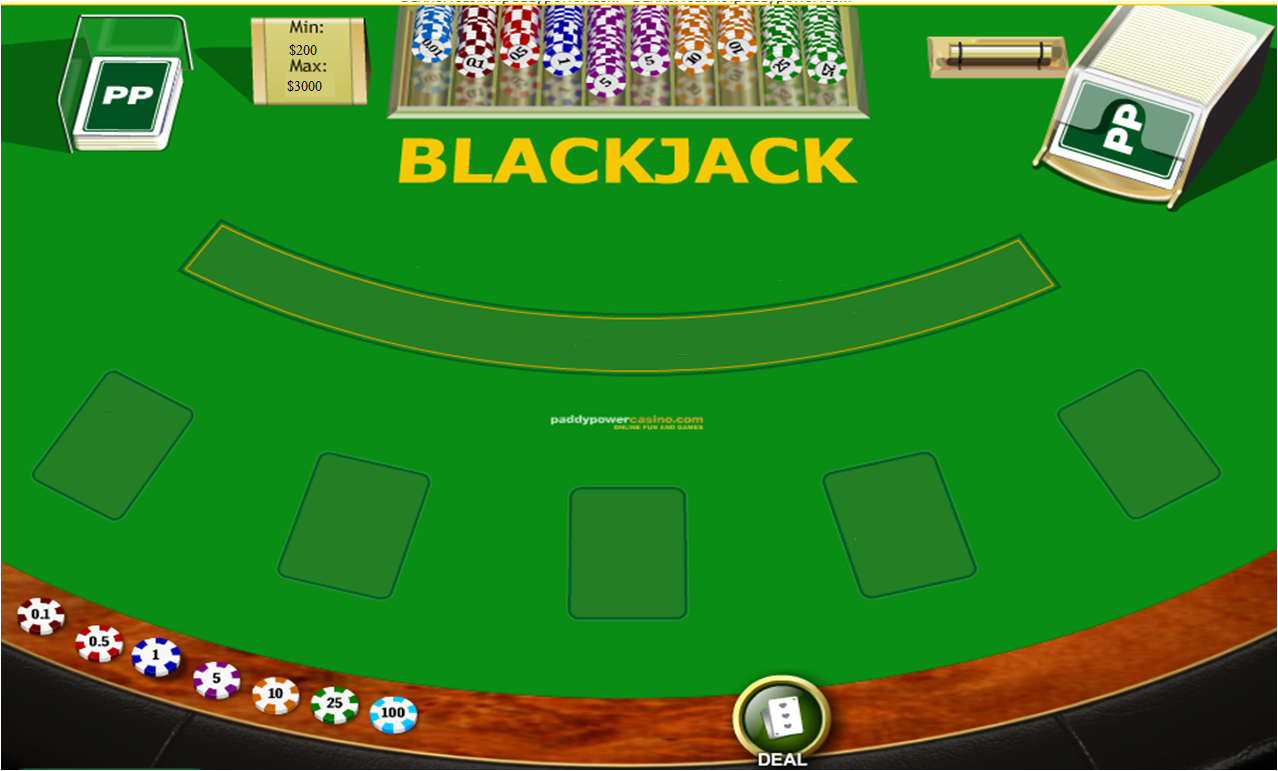
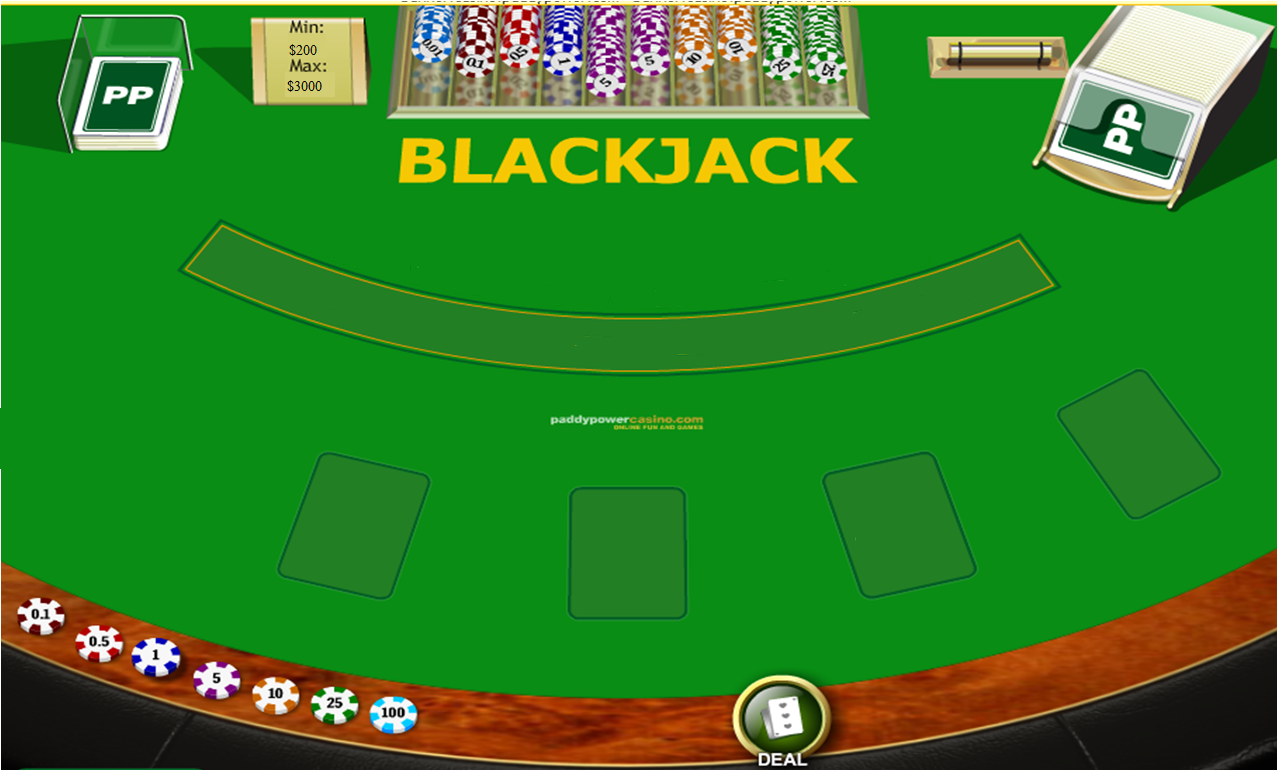
06/5 21:41
Imagenes colocadas random
somehow??

Changed region(s): [[0.0, 0.4669, 0.1526, 0.6848]]

diff --git a/Blackjack/src/Naipe.java b/Blackjack/src/Naipe.java
@@ -1,14 +1,20 @@
 
+import java.awt.Image;
+import java.util.Random;
+
 import javax.swing.ImageIcon;
 
 public class Naipe {
     
     public static final String[] valores={"As","2","3","4","5","6","7","8","9","10","Joker","Reina","Rey"};
     public static final String[] figuras={"Corazones","Diamantes","Picas","Treboles"};
+    public static final Image[] naipesImg=new Image[52];
             
     public ImageIcon imagen =new ImageIcon();
+    private Random rnd = new Random();
     public int valor;
     public int figura;
+    Image carta;
 
     public int getValor(){
         if (this.valor == 0){
@@ -16,6 +22,45 @@ public class Naipe {
         }else{
             return this.valor + 1;
         }
+    }
+    
+    public Naipe(){
+		for(int i=0; i<=12; i++){
+			naipesImg[i]=new ImageIcon("Cartas/Corazones/"+(i+1)+".png").getImage();
+		}
+		for(int i=0; i<=12; i++){
+			naipesImg[i]=new ImageIcon("Cartas/Diamante/"+(i+1)+".png").getImage();
+		}
+		for(int i=0; i<=12; i++){
+			naipesImg[i]=new ImageIcon("Cartas/Picas/"+(i+1)+".png").getImage();
+		}
+		for(int i=0; i<=12; i++){
+			naipesImg[i]=new ImageIcon("Cartas/Trebol/"+(i+1)+".png").getImage();
+		}
+	}
+    
+    public Image getCarta(){
+    	valor=(int)(rnd.nextDouble()*13+0);
+        figura=(int)(rnd.nextDouble()*4+0);
+        
+        System.out.println(valor);
+        System.out.println(figura);
+        
+    	if(figura==1){
+    		return carta=naipesImg[valor];
+    	}
+    	else if(figura==2){
+    		return carta=naipesImg[valor*2];
+    	}
+    	else if(figura==3){
+    		return carta=naipesImg[valor*3];
+    	}
+    	else if(figura==4){
+    		return carta=naipesImg[valor*4];
+    	}
+    	else{
+    		return null;
+    	}
     }
 
     public String toString(){

diff --git a/Blackjack/src/PanelDibujo.java b/Blackjack/src/PanelDibujo.java
@@ -1,23 +1,67 @@
 import javax.swing.*;
+
 import  java.awt.*;
 import java.awt.event.MouseListener;
 import java.awt.event.MouseEvent;
 public class PanelDibujo extends JPanel{
 
+	private int cartaX = 390-45;
+	private int cartaY = 375;
 
-
-	ImageIcon imagen;
+	ImageIcon fondo;
+	
+	Naipe naipe=new Naipe();
+	
 	public PanelDibujo(){
 		super();
 		setSize(400,400);
 		
-		imagen=new ImageIcon("mesa.jpg");
+		fondo=new ImageIcon("mesa.jpg");
 	}
 	
 	public void paint(Graphics g){
 		super.paint(g);
 		g.setColor(Color.white);
-		g.drawImage(imagen.getImage(),0,0,getWidth(),getHeight(),null);
+		g.drawImage(fondo.getImage(),0,0,getWidth(),getHeight(),null);
+		
+		g.setColor(Color.WHITE);
+		//Espacio Jugadores
+		g.drawRect(390-45, 375, 91, 114);
+		g.drawRect(675-45, 400, 91, 114);
+		g.drawRect(975-45, 375, 91, 114);
+		g.drawRect(1230-45, 310, 91, 114);
+		//Baraja
+		g.drawRect(675-45, 170, 91, 114);
+		
+		//Jugador 1
+		//Carta 1
+		g.drawImage(naipe.getCarta(),cartaX,cartaY,this);
+		//Carta 2
+		g.drawImage(naipe.getCarta(),cartaX+20,cartaY-20,this);
+		
+		//Jugador 2
+		//Carta 1
+		g.drawImage(naipe.getCarta(),675-45,400,this);
+		//Carta 2
+		g.drawImage(naipe.getCarta(),675-45+20,400-20,this);
+		
+		//Jugador 3
+		//Carta 1
+		g.drawImage(naipe.getCarta(),975-45,375,this);
+		//Carta 2
+		g.drawImage(naipe.getCarta(),975-45+20,375-20,this);
+				
+		//Jugador 4
+		//Carta 1
+		g.drawImage(naipe.getCarta(), 1230-45, 310, this);
+		//Carta 2
+		g.drawImage(naipe.getCarta(),1230-45+20,310-20,this);
+		
+		//Baraja
+		//Carta 1
+		g.drawImage(naipe.getCarta(), 675-45, 170, this);
+		//Carta 2
+		g.drawImage(naipe.getCarta(),675-45+20,170-20,this);
 	}
 }
 		

diff --git a/Blackjack/src/MyFrame.java b/Blackjack/src/MyFrame.java
@@ -5,7 +5,7 @@ import java.awt.event.*;
 
 public class MyFrame extends JFrame implements ActionListener {
 
-	private JPanel figuras,botones,radioButtons,cartas;
+	private JPanel figuras,botones,radioButtons;
 	private FlowLayout flowlayout;
 	private FileWriter filewriter;
 	private PrintWriter printwriter;
@@ -14,7 +14,7 @@ public class MyFrame extends JFrame implements ActionListener {
 	private String hex,color,figura;
 	private JButton open;
 	private JButton save;
-	private JButton carta1, carta2, carta3, carta4;
+	private JButton carta1;
 	private JFileChooser chooser, chooser2;
 	private String linea;
 	private String camino;

diff --git a/Blackjack/src/main_class.java b/Blackjack/src/main_class.java
@@ -16,6 +16,8 @@ public class main_class{
 		ventana.setVisible(true);
 
         Baraja baraja = new Baraja();
+        //Naipe naipe=new Naipe();
+        //System.out.println(naipe.getCarta());
 
         // Ask the number of players
         //Scanner user_input = new Scanner(System.in);

diff --git a/Blackjack/src/Baraja.java b/Blackjack/src/Baraja.java
@@ -2,7 +2,6 @@ import java.util.Random;
 import java.io.BufferedReader;
 import javax.swing.ImageIcon;
 import java.io.*;
-import java.io.BufferedReader;
 import java.io.FileReader;
 import java.io.IOException;
 
